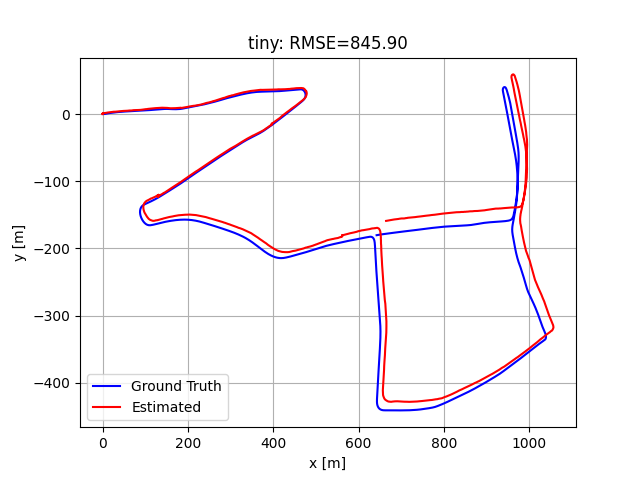
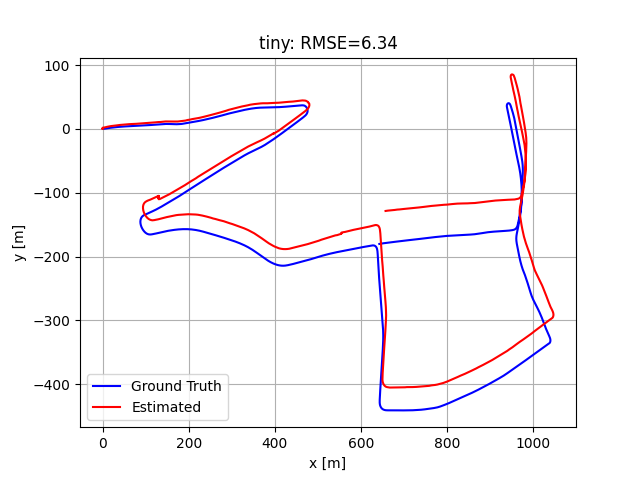
working on code to plot klt trajectory

diff --git a/trajectoryPlotting.py b/trajectoryPlotting.py
@@ -11,19 +11,26 @@ class Trajectory():
     def __init__(self, timestamps, poses):
         '''
         @param[in] timestamps np.ndarray of timestamps (N)
-        @param[in] poses np.ndarray of poses (N x 2)
+        @param[in] poses np.ndarray of x,y,theta poses (N x 3)
         '''
         self.timestamps = timestamps
         self.poses = poses
         self.nFrames = timestamps.shape[0]
-        self.interpX = scipy.interpolate.interp1d(self.timestamps, self.poses[:,0], kind='cubic', bounds_error=False)
-        self.interpY = scipy.interpolate.interp1d(self.timestamps, self.poses[:,1], kind='cubic', bounds_error=False)
+    
+    def appendRelativePose(self, t, A, h):
+        self.timestamps = np.append(self.timestamps, t)
+        x, y, th = self.poses[-1,:]
+        x_p, y_p, th_p = A @ np.array([x, y, th]) + h
+        self.poses = np.vstack((self.poses, np.array([x_p, y_p, th_p])))
+        self.nFrames = self.timestamps.shape[0]
     
     def getPoseAtTime(self, t):
         '''
         @brief Given timestamps, return the pose at that time using cubic interpolation
         @param[in] t float or np.ndarray of timestamps
         '''
+        self.interpX = scipy.interpolate.interp1d(self.timestamps, self.poses[:,0], kind='cubic', bounds_error=False)
+        self.interpY = scipy.interpolate.interp1d(self.timestamps, self.poses[:,1], kind='cubic', bounds_error=False)
         return np.vstack((self.interpX(t), self.interpY(t))).T
 
     def plotTrajectory(self):
@@ -43,7 +50,7 @@ class Trajectory():
         @brief Compute the Root Mean Square Error between the prediction and the actual trajectory
         '''
         estimatedPoses = estTraj.getPoseAtTime(self.timestamps)
-        rmse = np.sqrt(np.mean((np.linalg.norm(self.poses - estimatedPoses, axis=-1))**2))
+        rmse = np.sqrt(np.mean((np.linalg.norm(self.poses[:,:-1] - estimatedPoses[:,:-1], axis=-1))**2))
         return rmse
 
 def getGroundTruthTrajectory(gtPath : str):
@@ -68,7 +75,7 @@ def getGroundTruthTrajectory(gtPath : str):
             x += dx * np.cos(th) + dy * -np.sin(th)
             y += dx * np.sin(th) + dy * np.cos(th)
             th += dth
-            gt_poses.append([x,y])
+            gt_poses.append([x,y,th])
     gt_timestamps = np.array(gt_timestamps)
     gt_poses = np.array(gt_poses)
     return Trajectory(gt_timestamps, gt_poses)
@@ -89,20 +96,23 @@ def getGroundTruthTrajectoryGPS(gtPath : str):
             gt_timestamps.append(timestamp)
             x = float(row[2]) # x
             y = float(row[3]) # y
-            gt_poses.append([x,y])
+            gt_poses.append([x,y,0])
     gt_timestamps = np.array(gt_timestamps)
     gt_poses = np.array(gt_poses)
     return Trajectory(gt_timestamps, gt_poses)
 
-def viewResults(gtTraj, estTraj, title):
+def viewResults(gtTraj, estTraj, title, fig=None):
     '''
     @brief Plot ground truth trajectory and estimated trajectory
     @param[in] gtTrajectory Ground truth trajectory
     @param[in] estTrajectory Estimated trajectory
     @param[in] title Title of the plot
     '''
-    fig = plt.figure()
-    ax = fig.add_subplot()
+    if fig is None:
+        fig = plt.figure()
+        ax = fig.add_subplot()
+    else:
+        ax = fig.axes[0]
     ax.plot(gtTraj.poses[:,0], gtTraj.poses[:,1], 'b-', label='Ground Truth')
     ax.plot(estTraj.poses[:,0], estTraj.poses[:,1], 'r-', label='Estimated')
     ax.set_xlabel('x [m]')

diff --git a/main.py b/main.py
@@ -1,0 +1,43 @@
+import numpy as np
+import os, sys
+from utils import tic, toc
+
+from getFeatures import getBlobsFromCart
+
+from parseData import getCartImageFromImgPaths, getRadarImgPaths
+from trajectoryPlotting import *
+from KLT import *
+
+datasetName = sys.argv[1] if len(sys.argv) > 1 else "tiny"
+dataPath = os.path.join("data", datasetName, "radar")
+timestampPath = os.path.join("data", datasetName, "radar.timestamps")
+
+# Incremental streaming
+imgPathArr = getRadarImgPaths(dataPath, timestampPath)
+nImgs = len(imgPathArr)
+
+traj = Trajectory()
+
+# for imgNo in range(nImgs):
+#     currImg = getCartImageFromImgPaths(imgPathArr, imgNo)
+
+#     blobIndices = getBlobsFromCart(currImg,
+#                                     min_sigma=0.01,
+#                                     max_sigma=10,
+#                                     num_sigma=3,
+#                                     threshold=.0005,
+#                                     method="doh")
+#     currFeatureInd = blobIndices[:, :2].astype(int)
+
+#     if imgNo:
+#         print(f"Computing affine transforms for {len(blobIndices)} blobs", end="... ", flush=True)
+#         start = tic()
+#         A, h = KLT(prevFeatureInd,
+#                     currFeatureInd,
+#                     currImg.shape,
+#                     cloud=True,
+#                     visual=False)
+#         print(f"Done in {toc(start):.5f} seconds.")
+
+#     prevImg = np.copy(currImg)
+#     prevFeatureInd = np.copy(currFeatureInd)

diff --git a/getFeatures.py b/getFeatures.py
@@ -33,7 +33,7 @@ def getBlobsFromCart(cartImage: np.ndarray,
         raise NotImplementedError(
             f"{method} not implemented! Use one of {blob_fns.keys()}")
 
-    blobs = blob_fn(cartImage,
+    blobs = blob_fn(cartImage.astype(np.double),
                     min_sigma=min_sigma,
                     max_sigma=max_sigma,
                     num_sigma=num_sigma,

diff --git a/KLT.py b/KLT.py
@@ -89,7 +89,7 @@ def KLT(image0: np.ndarray,
         image1: np.ndarray,
         size: tuple[int, int],
         cloud: bool = False,
-        max_iters: int = 20,
+        max_iters: int = 10,
         visual: bool = True,
         verbose: bool = False) -> tuple[np.ndarray, np.ndarray]:
     # Convert clouds to binary images
